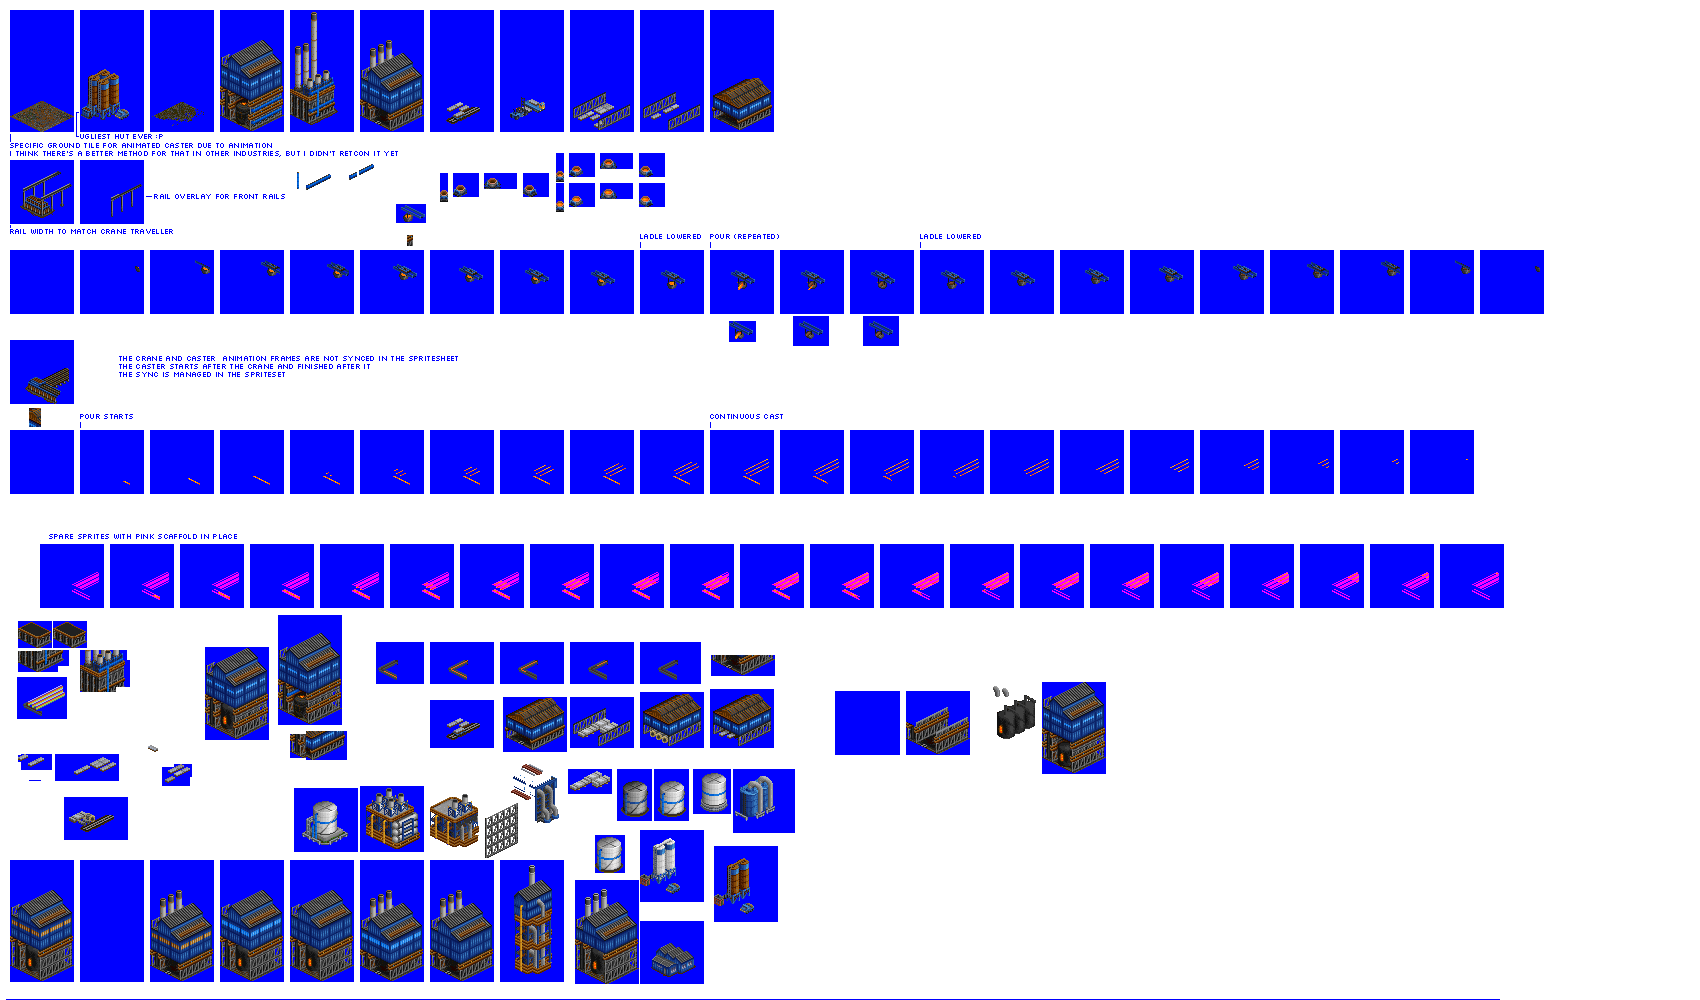
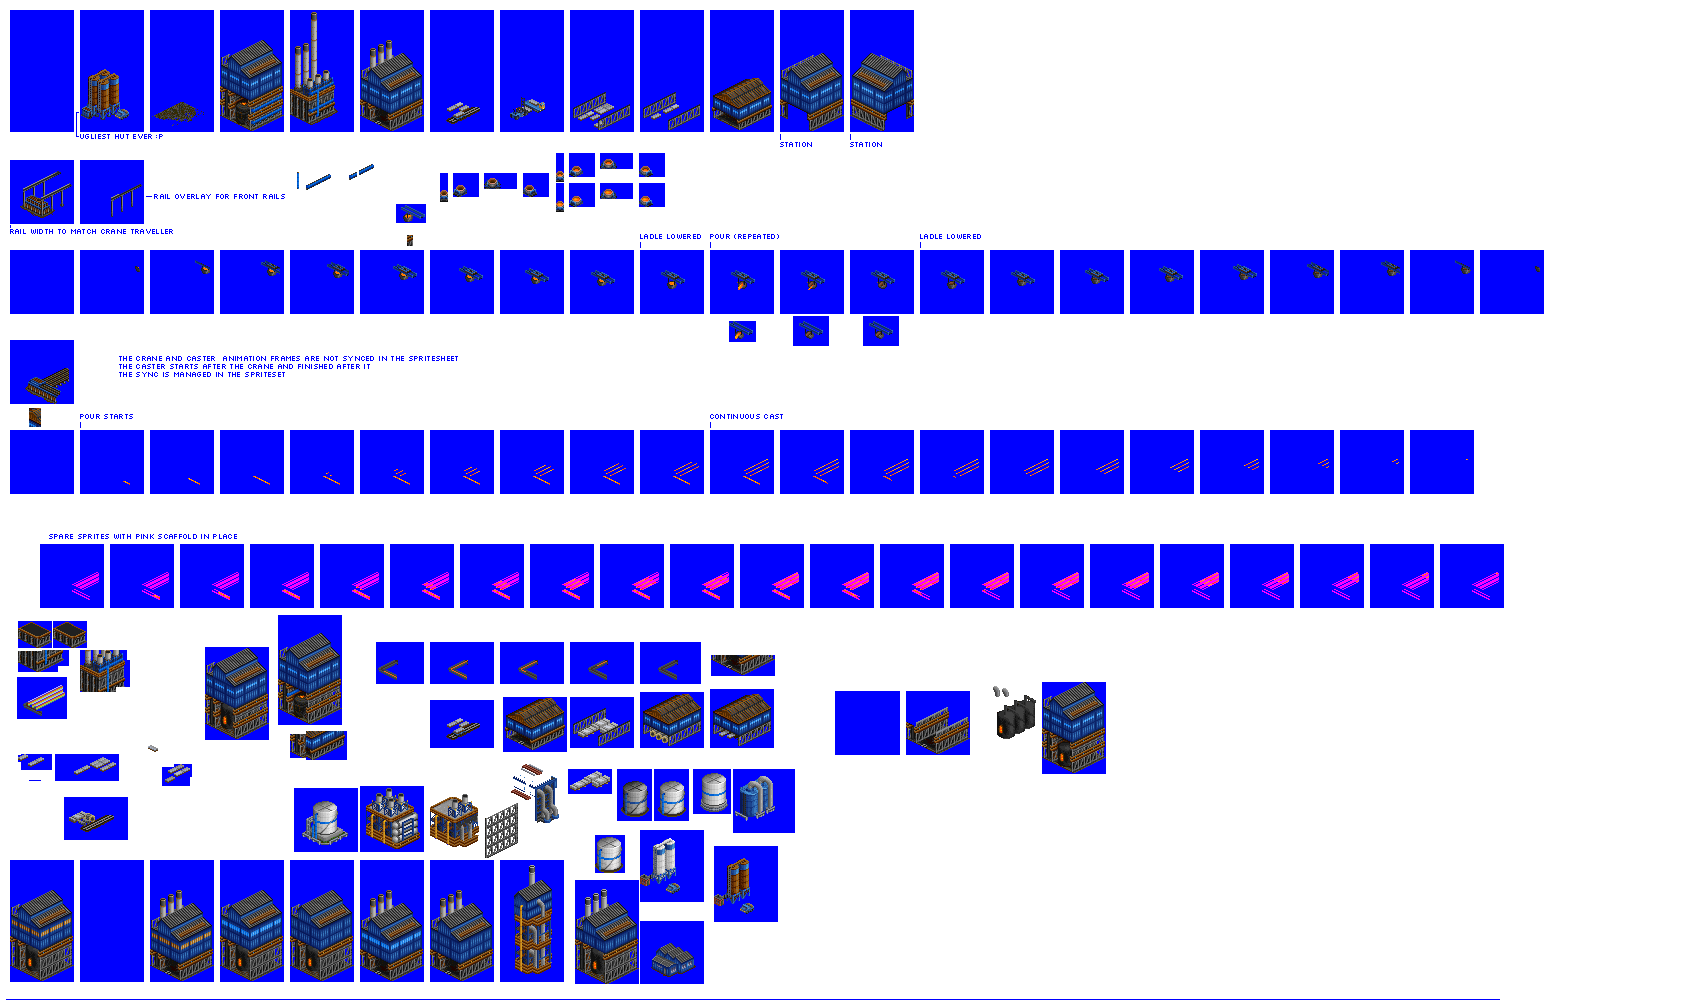
Codechange: extend animated ground spritesets to support BOF and EAF, removing need for hard-coded ground tile in spritesheets

Changed region(s): [[0.4365, 0.0, 0.5612, 0.155], [0.0, 0.093, 0.1559, 0.155]]

diff --git a/src/industries/basic_oxygen_furnace.py b/src/industries/basic_oxygen_furnace.py
@@ -138,7 +138,7 @@ spriteset_caster_gantry_overlay_animated = industry.add_spriteset(
     num_sprites_to_autofill=len(spriteset_caster_crane_animated.sprites),
 )
 spriteset_ground_tile_animated_crane = industry.add_spriteset(
-    sprites=[(10, 10, 64, 122, -31, -91)],
+    type="hard_standing_dirt",
     # autofills number of frames to match another spriteset which is animated etc (can get frame count from the other spriteset if defined already)
     num_sprites_to_autofill=len(spriteset_caster_crane_animated.sprites),
 )
@@ -191,7 +191,7 @@ spriteset_caster_machinery_animated = industry.add_spriteset(
     num_sprites_to_autofill=len(spriteset_caster_metal_run_animated.sprites),
 )
 spriteset_ground_tile_animated_metal_run = industry.add_spriteset(
-    sprites=[(10, 10, 64, 122, -31, -91)],
+    type="hard_standing_dirt",
     # autofills number of frames to match another spriteset which is animated etc (can get frame count from the other spriteset if defined already)
     num_sprites_to_autofill=len(spriteset_caster_metal_run_animated.sprites),
 )

diff --git a/src/industry.py b/src/industry.py
@@ -2032,6 +2032,8 @@ class Industry(object):
                 # ground tile assumes sprite_or_spriteset.type will always map to a ground_tile type
                 # have to accomodate number of frames needed (num_sprites_to_autofill) for animated spritelayouts
                 # !! if this is failing, look if the required number of frames is provided in ground_tiles.pynml
+                if sprite_or_spriteset.num_sprites_to_autofill not in global_constants.animated_ground_tile_frame_counts:
+                    raise BaseException(self.id + " needs global_constants.animated_ground_tile_frame_counts extended to add a frame count of " + str(sprite_or_spriteset.num_sprites_to_autofill))
                 return (
                     "spriteset_ground_tile_"
                     + sprite_or_spriteset.type

diff --git a/src/global_constants.py b/src/global_constants.py
@@ -340,6 +340,9 @@ graphics_temp_storage = dict(
     var_magic_trees_hide_tropic=17,  # hide tree sprite for snow
 )  # max register number must be 235; registers 236-255 are reserved for building sprite hide/show values
 
+# used to magically extend ground spritesets for animated tiles, add a count for each industry animation length
+animated_ground_tile_frame_counts = [1, 6, 7, 10, 12, 31, 32]
+
 # valid industry map colours, derived from an algorithm to ensure contrast against green / dark green / purple minimaps
 # based on work by frosch, https://devs.openttd.org/~frosch/texts/industrymap_green_darkgreen_violet.html
 valid_industry_map_colours = [

diff --git a/src/industries/electric_arc_furnace.py b/src/industries/electric_arc_furnace.py
@@ -111,10 +111,11 @@ spriteset_caster_line_1_animated = industry.add_spriteset(
     num_sprites_to_autofill=len(spriteset_caster_line_metal_animated.sprites),
 )
 spriteset_ground_tile_animated_caster_line = industry.add_spriteset(
-    sprites=[(500, 10, 64, 64, -31, -33)],
+    type="hard_standing_dirt",
     # autofills number of frames to match another spriteset which is animated etc (can get frame count from the other spriteset if defined already)
     num_sprites_to_autofill=len(spriteset_caster_line_metal_animated.sprites),
 )
+
 sprite_smoke_main_stack_1 = industry.add_smoke_sprite(
     smoke_type="white_smoke_small",
     xoffset=2,
